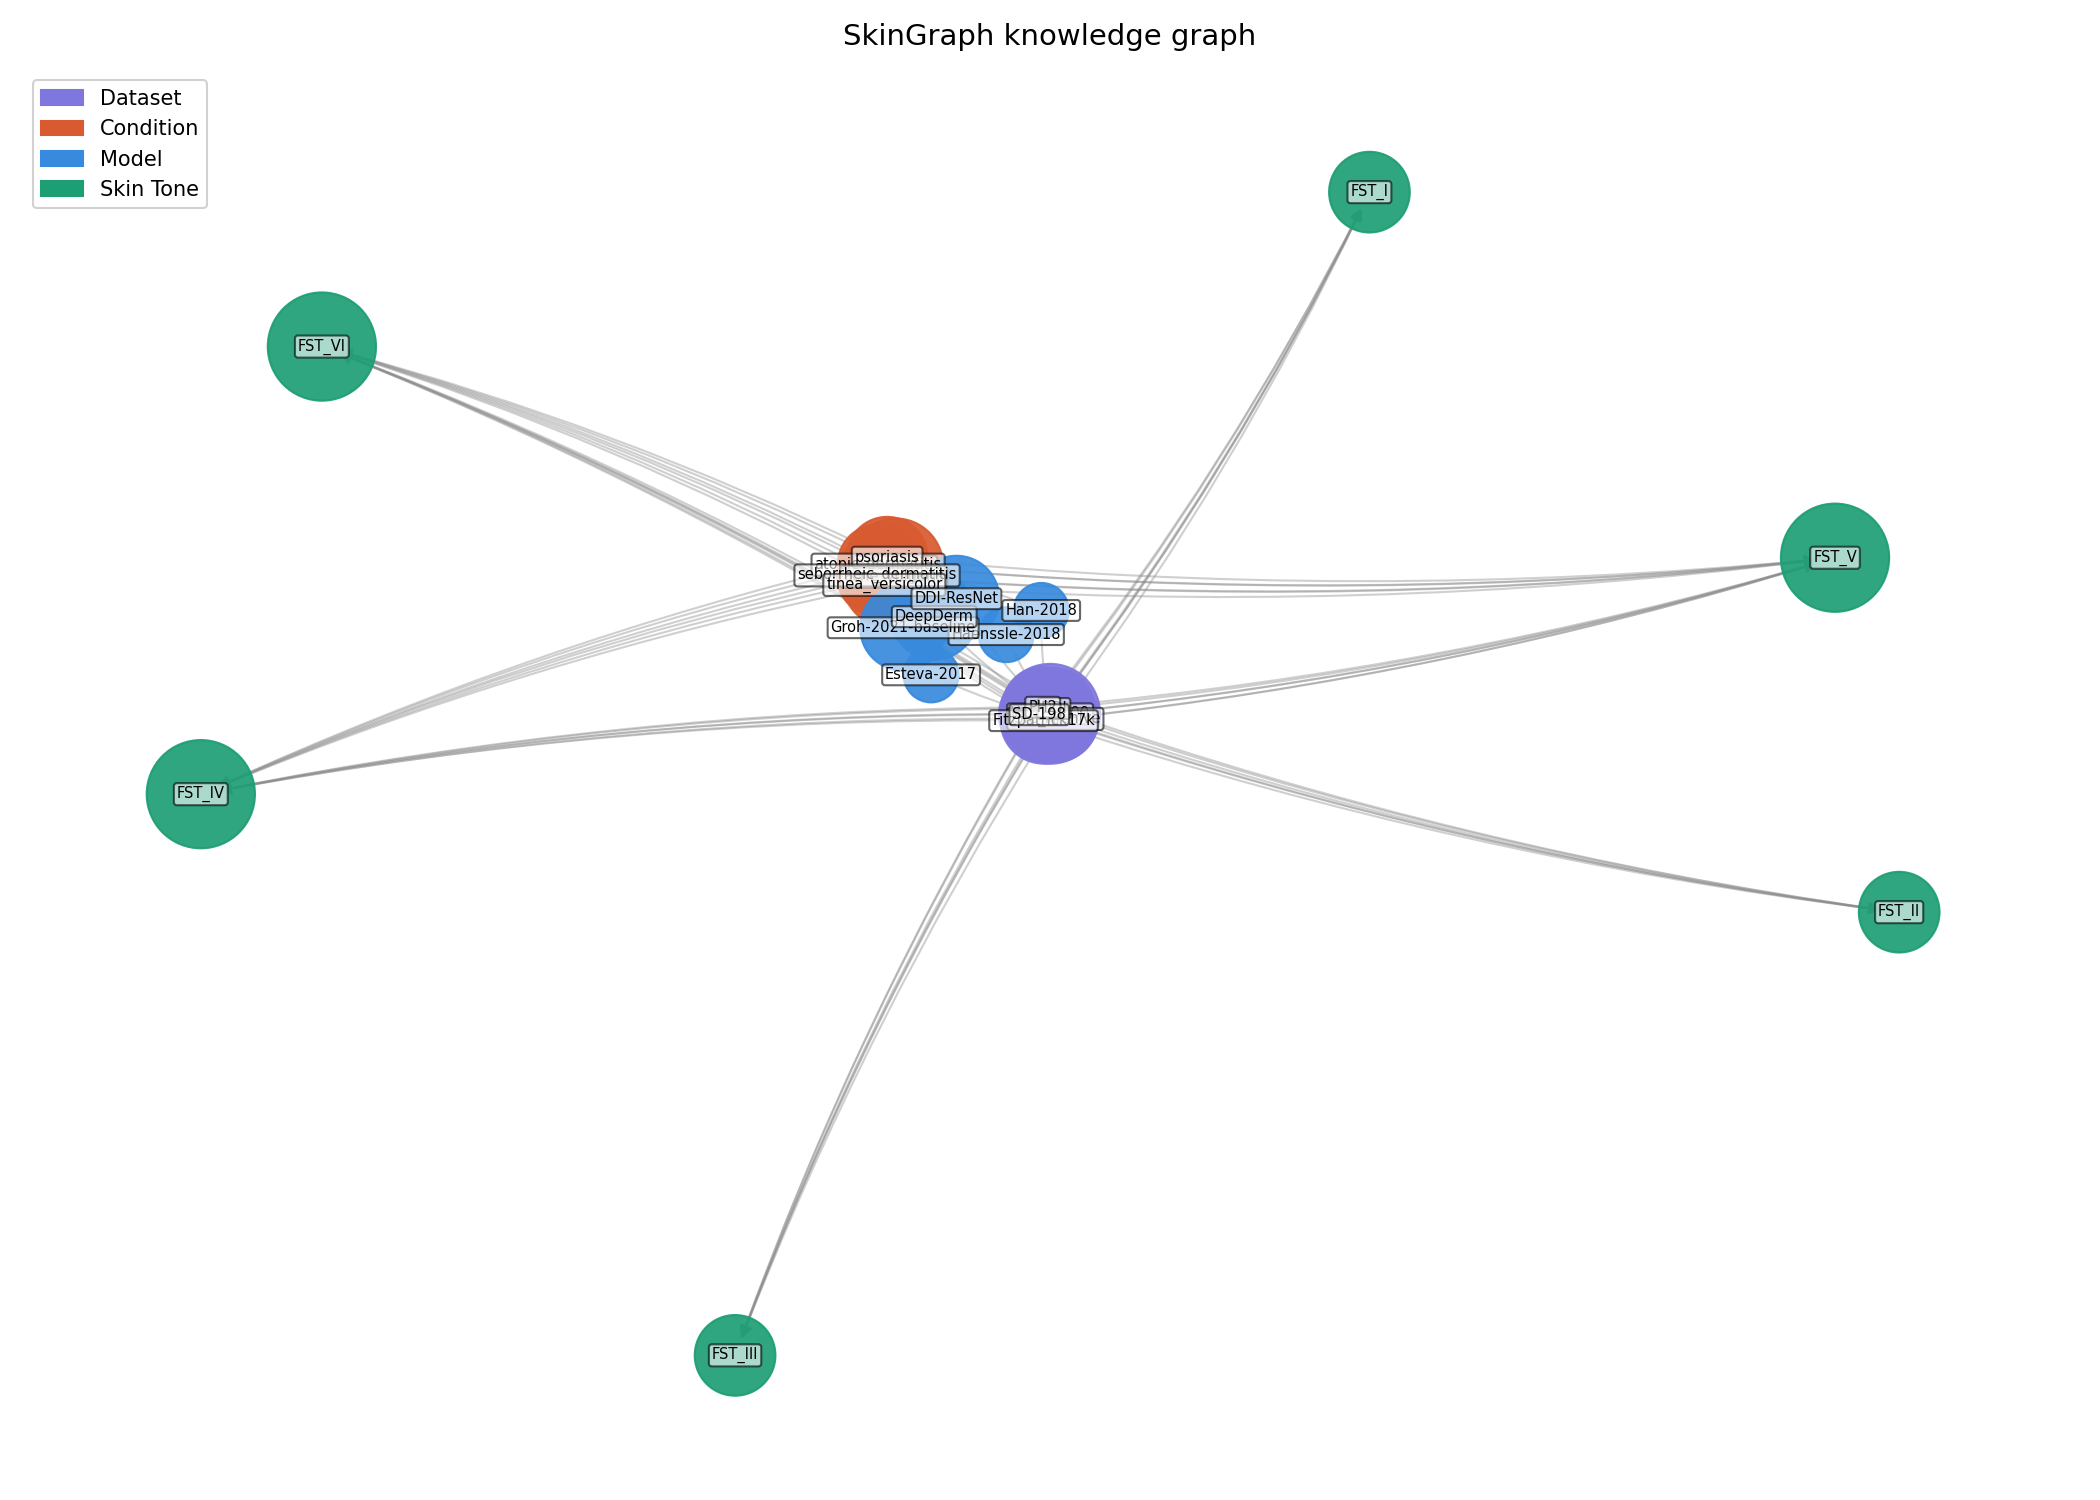
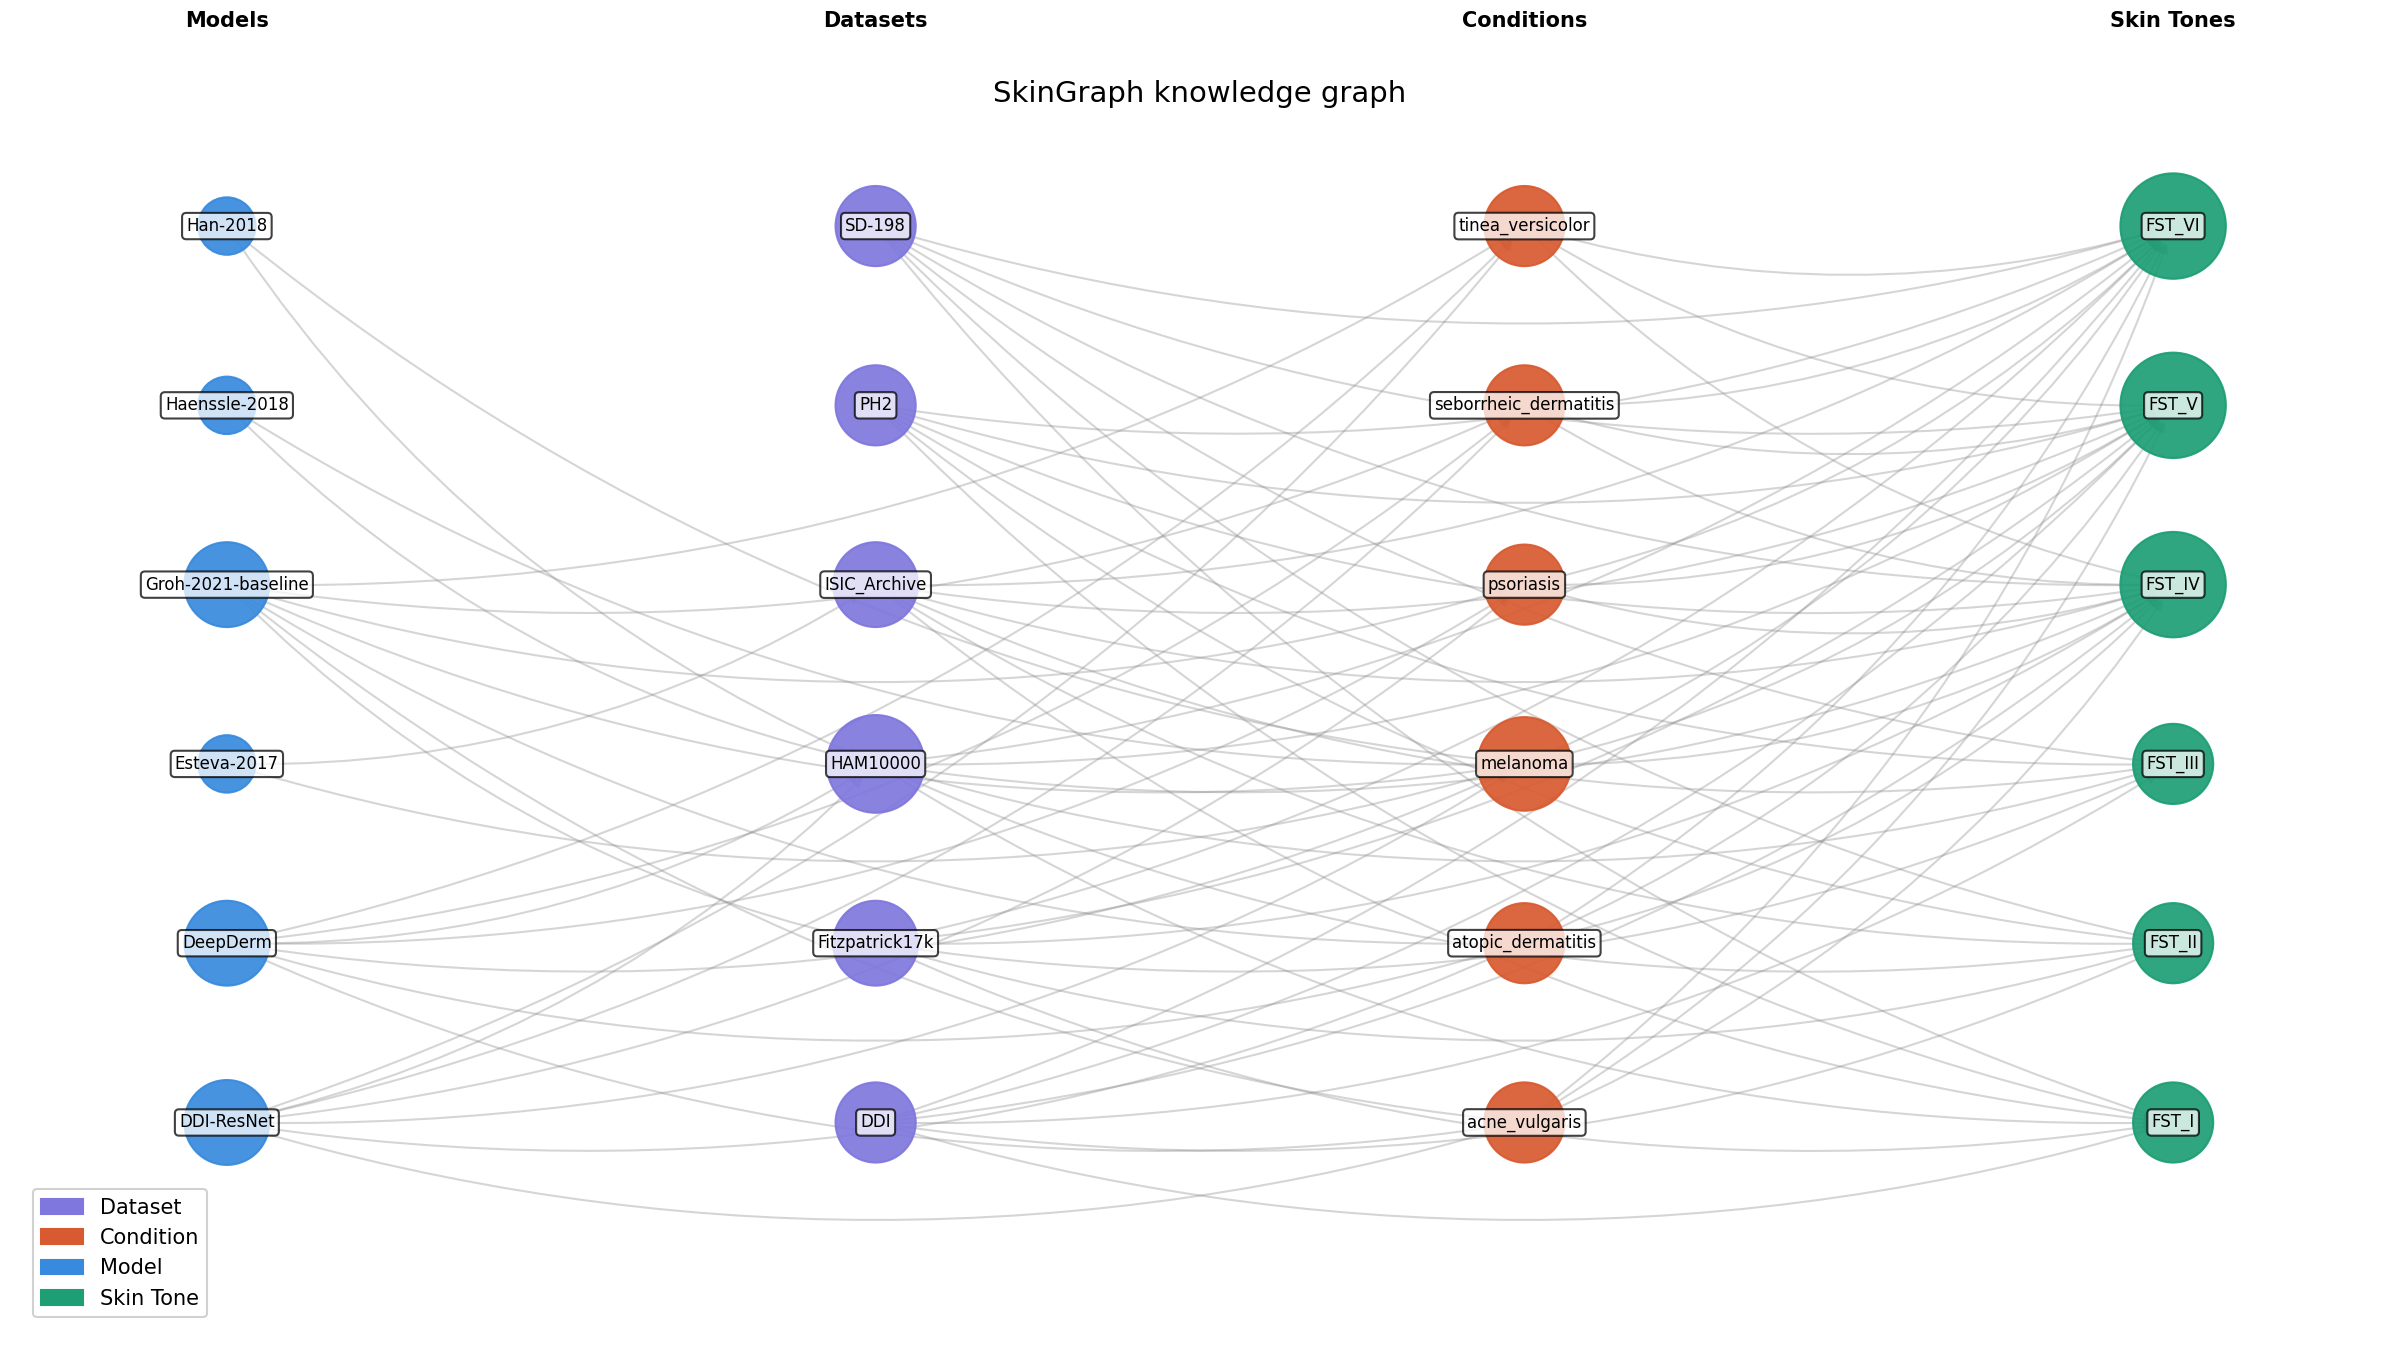
Fix readability of graph_viz“

diff --git a/graph/visualize.py b/graph/visualize.py
@@ -58,27 +58,51 @@ def coverage_heatmap(datasets: pd.DataFrame) -> None:
     print("Saved coverage_heatmap.png")
 
 
+def _column_layout(G: nx.DiGraph) -> dict:
+    """Position nodes in four vertical columns by type: model | dataset | condition | skin_tone."""
+    col_order = ["model", "dataset", "condition", "skin_tone"]
+    groups: dict[str, list] = {t: [] for t in col_order}
+    for n, d in G.nodes(data=True):
+        t = d.get("type", "")
+        if t in groups:
+            groups[t].append(n)
+    pos = {}
+    x_positions = {t: i * 1.0 for i, t in enumerate(col_order)}
+    for node_type, x in x_positions.items():
+        nodes = sorted(groups[node_type])
+        n = len(nodes)
+        for i, node in enumerate(nodes):
+            pos[node] = (x, (i - (n - 1) / 2) * 0.32)
+    return pos
+
+
 def graph_viz(G: nx.DiGraph) -> None:
-    """Save spring-layout knowledge graph to output/graph_viz.png."""
-    pos = nx.spring_layout(G, seed=42)
+    """Save column-layout knowledge graph to output/graph_viz.png."""
+    pos = _column_layout(G)
     degrees = dict(G.degree())
-    node_sizes = [300 + degrees[n] * 200 for n in G.nodes()]
+    node_sizes = [400 + degrees[n] * 180 for n in G.nodes()]
     node_colors = [NODE_COLORS.get(G.nodes[n].get("type", ""), "#aaaaaa") for n in G.nodes()]
 
-    fig, ax = plt.subplots(figsize=(14, 10))
+    fig, ax = plt.subplots(figsize=(16, 9))
     nx.draw_networkx_nodes(G, pos, ax=ax, node_size=node_sizes,
                            node_color=node_colors, alpha=0.92)
-    nx.draw_networkx_edges(G, pos, ax=ax, alpha=0.4, arrows=True,
-                           arrowsize=12, edge_color="#888888",
-                           connectionstyle="arc3,rad=0.05")
-    nx.draw_networkx_labels(G, pos, ax=ax, font_size=7,
-                            bbox={"boxstyle": "round,pad=0.2", "fc": "white", "alpha": 0.6})
+    nx.draw_networkx_edges(G, pos, ax=ax, alpha=0.35, arrows=True,
+                           arrowsize=10, edge_color="#888888",
+                           connectionstyle="arc3,rad=0.15")
+    nx.draw_networkx_labels(G, pos, ax=ax, font_size=8,
+                            bbox={"boxstyle": "round,pad=0.25", "fc": "white", "alpha": 0.75})
+
+    # Column header annotations
+    for label, x in zip(["Models", "Datasets", "Conditions", "Skin Tones"],
+                         [0.0, 1.0, 2.0, 3.0]):
+        ax.text(x, 1.08, label, ha="center", va="bottom", fontsize=10,
+                fontweight="bold", transform=ax.get_xaxis_transform())
 
     legend_handles = [
         mpatches.Patch(color=color, label=label.replace("_", " ").title())
         for label, color in NODE_COLORS.items()
     ]
-    ax.legend(handles=legend_handles, loc="upper left", fontsize=10, framealpha=0.9)
+    ax.legend(handles=legend_handles, loc="lower left", fontsize=10, framealpha=0.9)
     ax.set_title("SkinGraph knowledge graph", fontsize=14, pad=12)
     ax.axis("off")
 